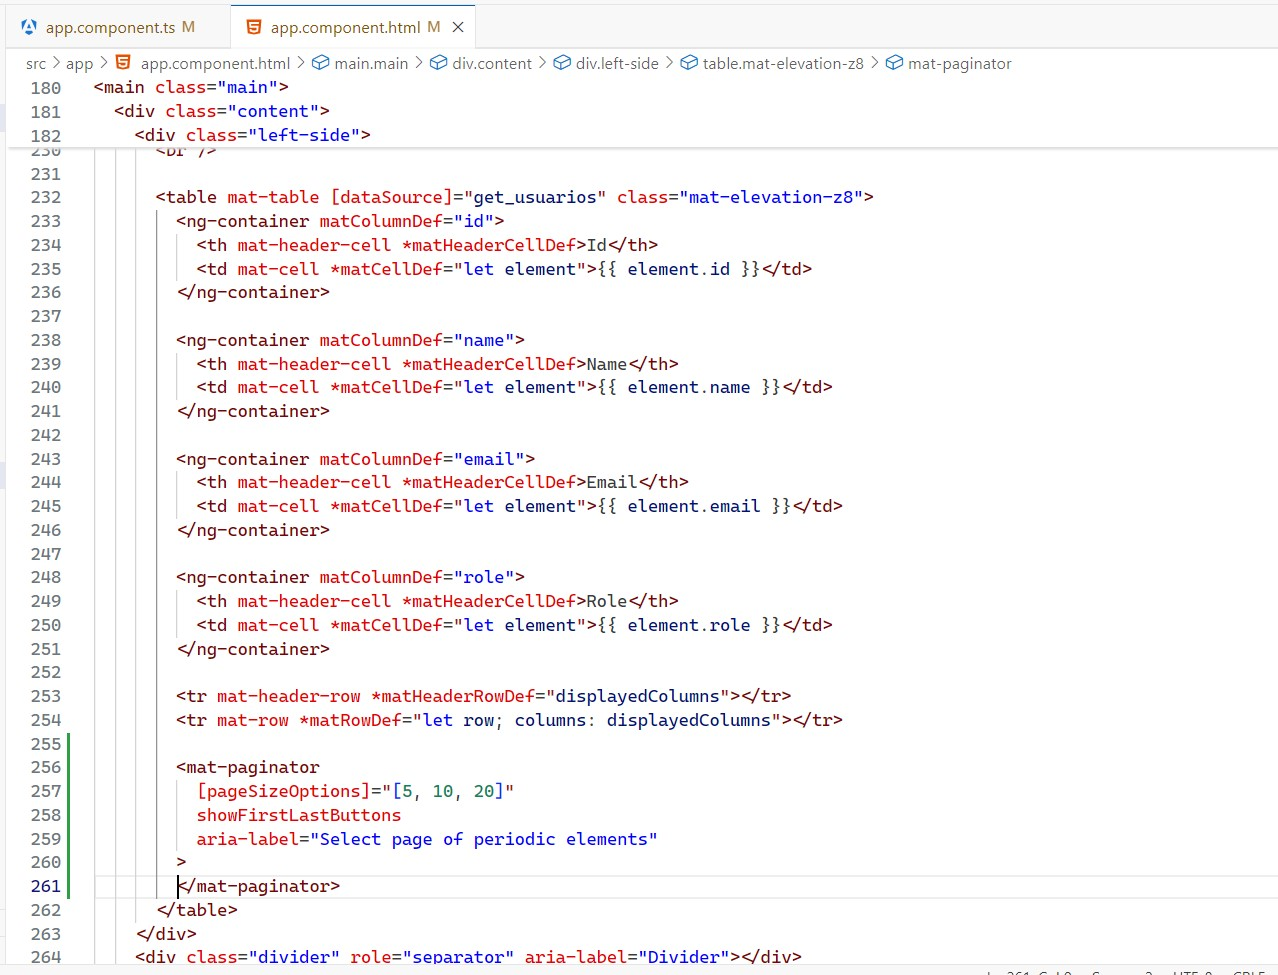
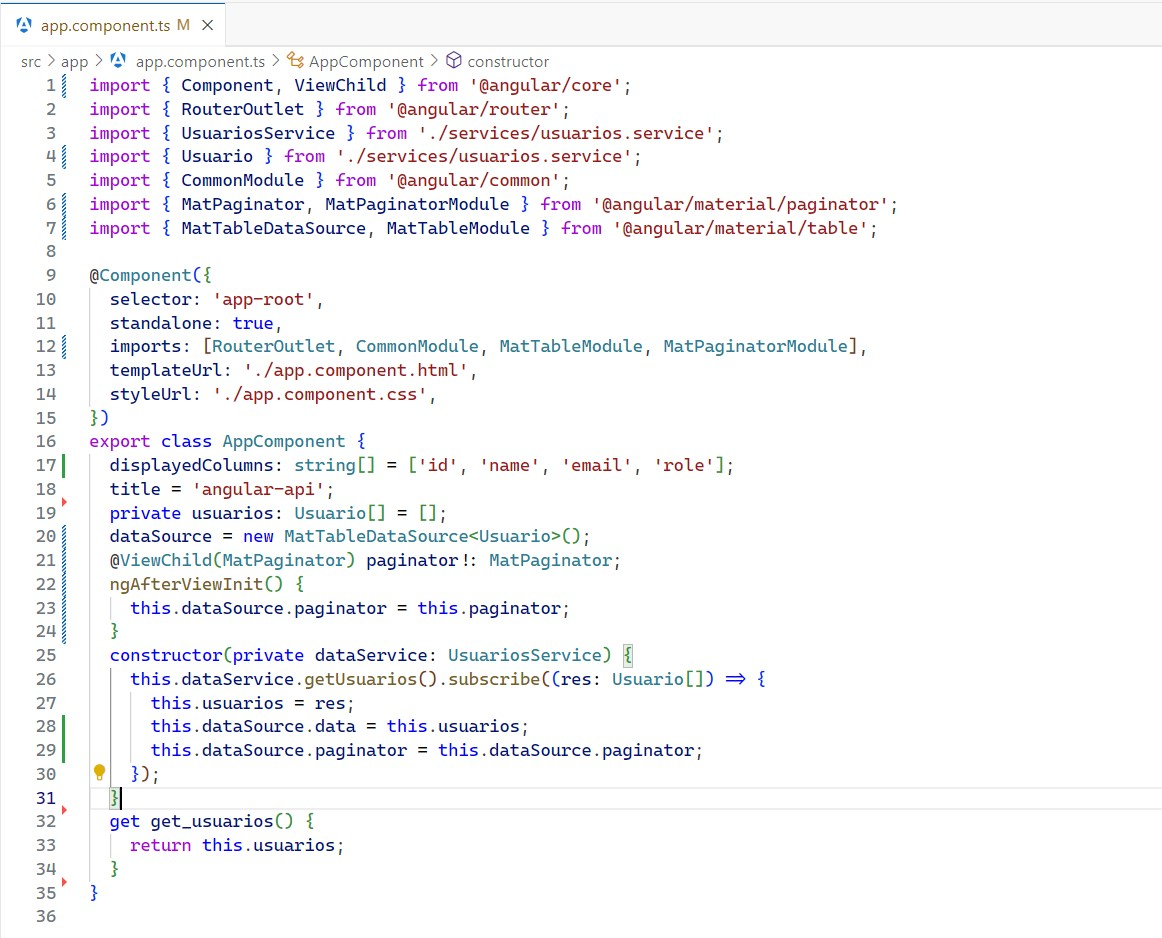
aplicacion

Changed region(s): [[0.0, 0.0, 0.8055, 0.9893], [0.9604, 0.9893, 0.9914, 1.0]]

diff --git a/src/app/app.component.html b/src/app/app.component.html
@@ -225,8 +225,7 @@
           <clipPath id="a"><path fill="#fff" d="M0 0h982v239H0z" /></clipPath>
         </defs>
       </svg>
-      <h1>Hola, {{ title }}</h1>
-      <p>Congratulations! Your app is running. 🎉</p>
+      <h1>Lista de Usuarios</h1>
       <br />
 
       <table mat-table [dataSource]="get_usuarios" class="mat-elevation-z8">
@@ -260,95 +259,7 @@
         >
         </mat-paginator>
       </table>
-    </div>
-    <div class="divider" role="separator" aria-label="Divider"></div>
-    <div class="right-side">
-      <div class="pill-group">
-        @for (item of [ { title: 'Explore the Docs', link: 'https://angular.dev'
-        }, { title: 'Learn with Tutorials', link:
-        'https://angular.dev/tutorials' }, { title: 'CLI Docs', link:
-        'https://angular.dev/tools/cli' }, { title: 'Angular Language Service',
-        link: 'https://angular.dev/tools/language-service' }, { title: 'Angular
-        DevTools', link: 'https://angular.dev/tools/devtools' }, ]; track
-        item.title) {
-        <a class="pill" [href]="item.link" target="_blank" rel="noopener">
-          <span>{{ item.title }}</span>
-          <svg
-            xmlns="http://www.w3.org/2000/svg"
-            height="14"
-            viewBox="0 -960 960 960"
-            width="14"
-            fill="currentColor"
-          >
-            <path
-              d="M200-120q-33 0-56.5-23.5T120-200v-560q0-33 23.5-56.5T200-840h280v80H200v560h560v-280h80v280q0 33-23.5 56.5T760-120H200Zm188-212-56-56 372-372H560v-80h280v280h-80v-144L388-332Z"
-            />
-          </svg>
-        </a>
-        }
-      </div>
-      <div class="social-links">
-        <a
-          href="https://github.com/angular/angular"
-          aria-label="Github"
-          target="_blank"
-          rel="noopener"
-        >
-          <svg
-            width="25"
-            height="24"
-            viewBox="0 0 25 24"
-            fill="none"
-            xmlns="http://www.w3.org/2000/svg"
-            alt="Github"
-          >
-            <path
-              d="M12.3047 0C5.50634 0 0 5.50942 0 12.3047C0 17.7423 3.52529 22.3535 8.41332 23.9787C9.02856 24.0946 9.25414 23.7142 9.25414 23.3871C9.25414 23.0949 9.24389 22.3207 9.23876 21.2953C5.81601 22.0377 5.09414 19.6444 5.09414 19.6444C4.53427 18.2243 3.72524 17.8449 3.72524 17.8449C2.61064 17.082 3.81137 17.0973 3.81137 17.0973C5.04697 17.1835 5.69604 18.3647 5.69604 18.3647C6.79321 20.2463 8.57636 19.7029 9.27978 19.3881C9.39052 18.5924 9.70736 18.0499 10.0591 17.7423C7.32641 17.4347 4.45429 16.3765 4.45429 11.6618C4.45429 10.3185 4.9311 9.22133 5.72065 8.36C5.58222 8.04931 5.16694 6.79833 5.82831 5.10337C5.82831 5.10337 6.85883 4.77319 9.2121 6.36459C10.1965 6.09082 11.2424 5.95546 12.2883 5.94931C13.3342 5.95546 14.3801 6.09082 15.3644 6.36459C17.7023 4.77319 18.7328 5.10337 18.7328 5.10337C19.3942 6.79833 18.9789 8.04931 18.8559 8.36C19.6403 9.22133 20.1171 10.3185 20.1171 11.6618C20.1171 16.3888 17.2409 17.4296 14.5031 17.7321C14.9338 18.1012 15.3337 18.8559 15.3337 20.0084C15.3337 21.6552 15.3183 22.978 15.3183 23.3779C15.3183 23.7009 15.5336 24.0854 16.1642 23.9623C21.0871 22.3484 24.6094 17.7341 24.6094 12.3047C24.6094 5.50942 19.0999 0 12.3047 0Z"
-            />
-          </svg>
-        </a>
-        <a
-          href="https://twitter.com/angular"
-          aria-label="Twitter"
-          target="_blank"
-          rel="noopener"
-        >
-          <svg
-            width="24"
-            height="24"
-            viewBox="0 0 24 24"
-            fill="none"
-            xmlns="http://www.w3.org/2000/svg"
-            alt="Twitter"
-          >
-            <path
-              d="M18.244 2.25h3.308l-7.227 8.26 8.502 11.24H16.17l-5.214-6.817L4.99 21.75H1.68l7.73-8.835L1.254 2.25H8.08l4.713 6.231zm-1.161 17.52h1.833L7.084 4.126H5.117z"
-            />
-          </svg>
-        </a>
-        <a
-          href="https://www.youtube.com/channel/UCbn1OgGei-DV7aSRo_HaAiw"
-          aria-label="Youtube"
-          target="_blank"
-          rel="noopener"
-        >
-          <svg
-            width="29"
-            height="20"
-            viewBox="0 0 29 20"
-            fill="none"
-            xmlns="http://www.w3.org/2000/svg"
-            alt="Youtube"
-          >
-            <path
-              fill-rule="evenodd"
-              clip-rule="evenodd"
-              d="M27.4896 1.52422C27.9301 1.96749 28.2463 2.51866 28.4068 3.12258C29.0004 5.35161 29.0004 10 29.0004 10C29.0004 10 29.0004 14.6484 28.4068 16.8774C28.2463 17.4813 27.9301 18.0325 27.4896 18.4758C27.0492 18.9191 26.5 19.2389 25.8972 19.4032C23.6778 20 14.8068 20 14.8068 20C14.8068 20 5.93586 20 3.71651 19.4032C3.11363 19.2389 2.56449 18.9191 2.12405 18.4758C1.68361 18.0325 1.36732 17.4813 1.20683 16.8774C0.613281 14.6484 0.613281 10 0.613281 10C0.613281 10 0.613281 5.35161 1.20683 3.12258C1.36732 2.51866 1.68361 1.96749 2.12405 1.52422C2.56449 1.08095 3.11363 0.76113 3.71651 0.596774C5.93586 0 14.8068 0 14.8068 0C14.8068 0 23.6778 0 25.8972 0.596774C26.5 0.76113 27.0492 1.08095 27.4896 1.52422ZM19.3229 10L11.9036 5.77905V14.221L19.3229 10Z"
-            />
-          </svg>
-        </a>
-      </div>
-    </div>
+    </div>    
   </div>
 </main>
 

diff --git a/src/app/app.component.ts b/src/app/app.component.ts
@@ -15,7 +15,6 @@ import { MatTableDataSource, MatTableModule } from '@angular/material/table';
 })
 export class AppComponent {
   displayedColumns: string[] = ['id', 'name', 'email', 'role'];
-  title = 'angular-api';
   private usuarios: Usuario[] = [];
   dataSource = new MatTableDataSource<Usuario>();
   @ViewChild(MatPaginator) paginator!: MatPaginator;

diff --git a/src/app/app.component.css b/src/app/app.component.css
@@ -1,3 +1,4 @@
 table {
   width: 100%;
+  box-shadow: 2px 2px rgb(195, 255, 236);
 }

diff --git a/README.md b/README.md
@@ -2,34 +2,246 @@
 
 ### Raúl Emiliano Pérez López
 
-## Paso 1. Crear proyecto
+### Descripción del Proyecto
+
+# Consumo de API de Terceros con Angular y Angular Material
+
+Este proyecto consiste en el desarrollo de una aplicación web basada en Angular que consume una API pública que devuleve información de usuarios. Se utiliza la API proporcionada por [API de Escuela](https://api.escuelajs.co/) en su endpoint `https://api.escuelajs.co/api/v1/users` para obtener información de usuarios y mostrarlos en una tabla paginada.
+
+#### Características principales:
+- **Consumo de API REST:** Se realiza una solicitud HTTP GET al endpoint de usuarios para obtener los datos.
+- **Angular Material:** Se utiliza Angular Material para la construcción de una tabla estilizada y funcional.
+- **Paginación:** La tabla incorpora un sistema de paginación dinámico que permite navegar entre diferentes páginas de resultados.
+- **Modularidad:** Código estructurado siguiendo las mejores prácticas de Angular, con componentes reutilizables y servicios centralizados para el consumo de la API.
+
+#### Tecnologías Utilizadas:
+- **Angular**: Framework para el desarrollo de aplicaciones web SPA.
+- **Angular Material**: Biblioteca de componentes UI basados en Material Design.
+- **HttpClientModule**: Módulo de Angular para manejar solicitudes HTTP.
+- **TypeScript**: Lenguaje principal para el desarrollo en Angular.
+- **CSS**: Para estilos de los elementos HTML
+
+#### Estructura del Proyecto:
+1. **Componente de Tabla:** 
+   - Presenta los datos obtenidos de la API en una tabla interactiva.
+   - Incorpora paginación y estilos consistentes.
+2. **Servicio de Usuarios:** 
+   - Gestiona las solicitudes HTTP al endpoint de la API.
+   - Facilita la reutilización y separación de responsabilidades.
+3. **Módulo de Material:** 
+   - Centraliza los módulos de Angular Material necesarios para la aplicación, como tablas, paginación, botones y estilos.
+
+#### Flujo del Proyecto:
+1. **Consumo de API:**
+   - Se utiliza el servicio de Angular para realizar una solicitud GET al endpoint de usuarios.
+2. **Renderizado de Datos:**
+   - Los datos obtenidos se pasan al componente de tabla para ser mostrados.
+3. **Interacción:**
+   - El usuario puede navegar entre las páginas de resultados utilizando la paginación integrada.
+
+#### Objetivo:
+El objetivo principal de este proyecto es demostrar el consumo eficiente de una API REST utilizando Angular, la presentación de datos en un formato interactivo y el uso de herramientas modernas de UI como Angular Material.
+
+--- 
+
+### Paso 1: Creación del Proyecto
+
+Para iniciar el proyecto, se utiliza Angular CLI, una herramienta que facilita la creación y configuración inicial de aplicaciones Angular. Sigue los pasos a continuación para crear el proyecto:
+
+#### Comando para crear el proyecto
+Se ejecuta el siguiente comando en tu terminal para generar una nueva aplicación Angular
 
 ![paso1](imagenes/1.jpg)
 
-## Paso 2. Ir a la ruta del proyecto
+#### Detalles del Comando:
+- `ng new`: Comando de Angular CLI para crear un nuevo proyecto.
+- `consumo-api-REPL`: Nombre del proyecto. Este será el directorio que contendrá todos los archivos y configuraciones del proyecto.
+
+#### Proceso involucrado durante la ejecución:
+1. **Seleccionar configuraciones:**
+   - **¿Quieres agregar Angular Routing?**  
+     Se eelecciona `Yes` para incluir el módulo de routing si se requiere en el futuro para navegación entre vistas.
+   - **Seleccionar el estilo predeterminado:**  
+     Se elige `CSS` para manejar los estilos de los elementos.
+
+2. **Generación del proyecto:**
+   Angular CLI creará automáticamente la estructura de carpetas, configuraciones iniciales y descargará las dependencias necesarias.
+
+#### Resultado:
+Después de completar el proceso, se obtiene una nueva carpeta llamada `consumo-api-REPL`, que contiene la estructura básica del proyecto Angular.
+
+### Paso 2: Instalación de Angular Material
+
+Angular Material es una biblioteca de componentes de UI que sigue las directrices de Material Design. Proporciona componentes como tablas, botones, formularios, y más, que pueden ser utilizados para crear interfaces modernas y atractivas. En este paso, se va a instalar Angular Material en el proyecto.
+
+#### Procesos involucrados durante la instalación:
+1. **Selección de un tema:**
+   El comando te pedirá que elijas un tema prediseñado de Angular Material. Yo escogí el siguiente
+   - **Azure/Blue** (tema por defecto)
+
+2. **Configuración de animaciones:**
+   Angular Material requiere que el módulo `BrowserAnimationsModule` esté habilitado para poder usar animaciones. El comando agregará automáticamente este módulo al archivo `app.module.ts`.
+
+3. **Instalación de dependencias:**
+   Angular CLI descargará e instalará todas las dependencias necesarias de Angular Material y las agregará a tu archivo `package.json`.
+
+#### Resultado:
+Al finalizar, el proyecto estará listo para usar los componentes de Angular Material. El archivo `angular.json` se actualizará con las configuraciones del tema seleccionado, y el archivo `app.module.ts` tendrá las importaciones necesarias para empezar a utilizar los componentes de Material.
 
 ![paso2](imagenes/2.jpg)
 
-## Paso 3. Generar servicio de usuarios
+### Paso 3: Generación del Servicio de Usuarios
+
+En este paso, se crea un servicio en Angular que se encargue de la comunicación con la API para obtener la lista de usuarios. Un servicio en Angular es una clase que se utiliza para compartir funcionalidades y manejar lógica de negocio, como las solicitudes HTTP.
+
+#### Detalles del Comando:
+- `ng generate service`: Comando de Angular CLI para generar un nuevo servicio.
+- `services/usuarios`: Especifica la ruta y el nombre del servicio. En este caso, el servicio se creará en la carpeta `src/app/services` y se llamará `usuarios.service.ts`.
+
+#### Explicación:
+- **Estructura del servicio:** Angular CLI generará automáticamente una clase de servicio con los métodos básicos. Este servicio se encargará de realizar las solicitudes HTTP para obtener los datos de la API.
+- **Ubicación:** El servicio se guardará en la carpeta `src/app/services` y tendrá el archivo `usuarios.service.ts`.
+
+#### Resultado:
+Al finalizar, Angular CLI creará un archivo llamado `usuarios.service.ts`.
 
 ![paso3](imagenes/3.jpg)
 
-## Paso 4. Configurar HTTPClient del proyecto
+### Paso 4: Agregar `provideHttpClient` a la Configuración en `app.config.ts`
+
+En este paso, vamos a asegurarnos de que la aplicación esté configurada para poder realizar solicitudes HTTP utilizando el `HttpClientModule`. Angular, a partir de la versión 14, permite usar un enfoque más modular y explícito para configurar las dependencias en la aplicación, utilizando la configuración `ApplicationConfig`.
+
+#### Agregar proveedor de cliente HTTP 
+
+En el archivo `app.config.ts` se va a agregar `provideHttpClient` dentro de los proveedores, lo que permitirá que los servicios de nuestra aplicación (como el servicio de usuarios que creamos en el paso anterior) realicen solicitudes HTTP.
+
+El archivo `app.config.ts` tiene el siguiente código:
 
 ![paso4](imagenes/4.jpg)
 
-## Paso 5. Generar código de servicio de usuarios
+#### Explicación del código:
+- **`provideHttpClient()`**: Este es el proveedor necesario para habilitar el `HttpClient` en la aplicación. Sin esto, Angular no podrá realizar solicitudes HTTP utilizando el servicio `HttpClient` que se inyectó en el servicio `usuarios.service.ts`.
+- **Otros proveedores**:
+  - **`provideZoneChangeDetection()`**: Este proveedor se utiliza para mejorar el rendimiento de la detección de cambios en la aplicación, al agrupar eventos en "zonas".
+  - **`provideRouter(routes)`**: Configura las rutas de la aplicación, necesarias si se está utilizando el enrutador en Angular.
+  - **`provideClientHydration()`**: Se utiliza en aplicaciones que tienen renderizado del lado del servidor (SSR) para hidratar el estado del cliente.
+  - **`provideAnimationsAsync()`**: Proporciona soporte para animaciones asíncronas en la aplicación, requerido si se utiliza Angular Material u otras librerías que hagan uso de animaciones.
+
+### Paso 5: Configuración del Servicio de Usuarios
+
+En este paso, configuramos el servicio de usuarios para que pueda obtener los usuarios desde la API y ofrecerlos a los componentes que los necesiten. Vamos a modificar el archivo `usuarios.service.ts` para agregar la lógica de obtención de usuarios, así como definir una interfaz que representará la estructura de los datos que recibimos desde la API.
+
+#### Código del servicio `usuarios.service.ts`
+
+El archivo `src/app/services/usuarios.service.ts` tendrá el siguiente código que se muestra en la imagen.
 
 ![paso5](imagenes/5.jpg)
 
-## Paso 6. Crear tabla en HTML
+#### Explicación del código:
+
+1. **Interfaz `Usuario`:**
+   - La interfaz `Usuario` define la estructura de un usuario tal como la esperamos de la API. Cada usuario tendrá los siguientes campos:
+     - `id`: Número único que identifica al usuario.
+     - `email`: Dirección de correo electrónico del usuario.
+     - `name`: Nombre completo del usuario.
+     - `role`: Rol del usuario (por ejemplo, 'admin', 'user', etc.).
+
+2. **Servicio `UsuariosService`:**
+   - **`apiUrl`:** Es la URL de la API que devuelve la lista de usuarios.
+   - **Método `getUsuarios`:** Este método utiliza el `HttpClient` de Angular para hacer una solicitud HTTP GET al endpoint de la API. Devuelve un `Observable` de tipo `Usuario[]`, lo que significa que se espera una lista de usuarios como respuesta.
+   - **`HttpClient`:** Angular maneja las solicitudes HTTP a través de este servicio, que es inyectado en el constructor de la clase para poder usarse en el método `getUsuarios`.
+
+#### Explicación adicional:
+
+- **`Observable<Usuario[]>`:** El método `getUsuarios` devuelve un `Observable`, que es un patrón usado en Angular para manejar datos asincrónicos. Los componentes que usen este servicio deberán suscribirse al `Observable` para recibir los datos de los usuarios cuando estén disponibles.
+
+### Paso 6: Configuración del Componente en `app.component.ts`
+
+En este paso, configuramos el componente `AppComponent` para que obtenga los usuarios desde el servicio `UsuariosService` y los muestre en una tabla utilizando Angular Material. También implementamos la paginación para que los usuarios se puedan navegar página por página.
+
+#### Código del Componente `app.component.ts`
+
+A continuación, se detalla el código completo del componente `AppComponent` en la siguiente imagen.
 
 ![paso6](imagenes/6.jpg)
 
-## Paso 7. Configurar el componente
+#### Explicación del código:
+
+1. **Dependencias Importadas:**
+   - **`MatTableDataSource` y `MatTableModule`:** Se utilizan para la implementación de la tabla de Material, que mostrará los usuarios. `MatTableDataSource` es una clase que facilita la gestión de los datos en la tabla.
+   - **`MatPaginator` y `MatPaginatorModule`:** Permiten implementar la paginación en la tabla. El `MatPaginator` es un componente que permite dividir los datos en páginas.
+
+2. **Propiedades del componente:**
+   - **`displayedColumns`:** Define las columnas que se mostrarán en la tabla. En este caso, las columnas son `id`, `name`, `email`, y `role`.
+   - **`usuarios`:** Lista privada que almacenará los datos de los usuarios obtenidos desde la API.
+   - **`dataSource`:** Es una instancia de `MatTableDataSource` que maneja los datos de la tabla y la paginación.
+   - **`paginator`:** Una referencia al paginador que se vincula a la tabla para permitir la navegación entre páginas.
+
+3. **`ngAfterViewInit()`:** Este método se ejecuta después de que las vistas del componente hayan sido inicializadas. Aquí, se asegura de que el paginador esté asociado correctamente con el `dataSource` para habilitar la paginación.
+
+4. **`constructor`:**
+   - El servicio `UsuariosService` se inyecta en el constructor y se utiliza para obtener los datos de los usuarios. 
+   - Al suscribirse a `getUsuarios()`, los usuarios se reciben como un array de objetos `Usuario[]`. Los datos se asignan a `this.usuarios` y se actualiza `this.dataSource.data` para que la tabla muestre los usuarios obtenidos.
+
+5. **Getter `get_usuarios`:** Permite acceder a la lista de usuarios desde el componente. Aunque no es estrictamente necesario para este caso, puede ser útil si se quiere acceder a los usuarios desde otras partes de la plantilla o del componente.
+
+### Paso 7: Agregar el Código HTML en `app.component.html`
+
+En este paso, vamos a configurar el archivo `app.component.html` para que muestre la tabla de usuarios utilizando Angular Material y habilite la paginación para navegar entre los registros.
+
+El código HTML para el componente será el de la siguiente imagen.
 
 ![paso7](imagenes/7.jpg)
 
-## Paso 8. Configurar CSS
+#### Explicación del código:
+
+1. **`mat-table`**: Se utiliza el componente `mat-table` de Angular Material para crear una tabla. La propiedad `[dataSource]` se enlaza con la lista de usuarios obtenida desde el servicio (`get_usuarios`), que es un getter del componente.
+
+2. **Definición de columnas (`ng-container`)**:
+   - Cada columna se define usando el componente `ng-container` y el atributo `matColumnDef`. Esto permite que las celdas de la tabla sean dinámicas.
+   - Para cada columna, se especifica un `mat-header-cell` para el encabezado y un `mat-cell` para las celdas. Las columnas definidas son:
+     - `id`: Muestra el identificador único del usuario.
+     - `name`: Muestra el nombre del usuario.
+     - `email`: Muestra la dirección de correo electrónico del usuario.
+     - `role`: Muestra el rol del usuario (por ejemplo, "admin", "user", etc.).
+
+3. **Filas de la tabla**:
+   - `<tr mat-header-row *matHeaderRowDef="displayedColumns"></tr>`: Esta fila define las cabeceras de la tabla.
+   - `<tr mat-row *matRowDef="let row; columns: displayedColumns"></tr>`: Esta fila se usa para mostrar los datos de cada usuario.
+
+4. **Paginación (`mat-paginator`)**:
+   - **`[pageSizeOptions]`:** Define las opciones de tamaño de página disponibles para la paginación. En este caso, el usuario puede elegir entre 5, 10 o 20 elementos por página.
+   - **`showFirstLastButtons`:** Muestra los botones para ir a la primera y última página.
+   - **`aria-label`:** Proporciona una etiqueta accesible para describir el propósito del componente.
+
+
+### Paso 8: Agregar el CSS para el Componente
+
+En este paso, vamos a agregar el estilo CSS para el componente de la tabla en el archivo `app.component.css` para darle un diseño más atractivo y mejorar su apariencia.
+
+El código CSS será el siguiente:
 
 ![paso8](imagenes/8.jpg)
+
+#### Explicación del CSS:
+
+1. **Estilo para la tabla (`table`)**:
+   - **`width: 100%`:** La tabla ocupa todo el ancho disponible del contenedor.
+   - **`box-shadow: 2px 2px rgb(195, 255, 236);`:** Se agrega una sombra de un color verde suave con un pequeño desplazamiento para darle un efecto visual.
+
+### Paso 9: Ejecutar el Comando `ng serve`
+
+En este paso, vamos a ejecutar la aplicación Angular para ver el resultado y asegurarnos de que todo funcione correctamente.
+
+![paso9](imagenes/9.jpg)
+
+#### Explicación:
+- **`ng serve`**: Este comando compila y sirve la aplicación en un servidor de desarrollo local. Una vez ejecutado, Angular compilará el proyecto y lo pondrá en marcha en el servidor de desarrollo.
+- El servidor de desarrollo se ejecuta en **http://localhost:4200**, por lo que se podrá acceder a la aplicación desde un navegador.
+
+
+### Paso 10: Ver los Resultados en **http://localhost:4200**
+
+Se tiene verificar que todo esté funcionando correctamente accediendo a la aplicación desde el navegador.
+
+![paso10](imagenes/10.jpg)
